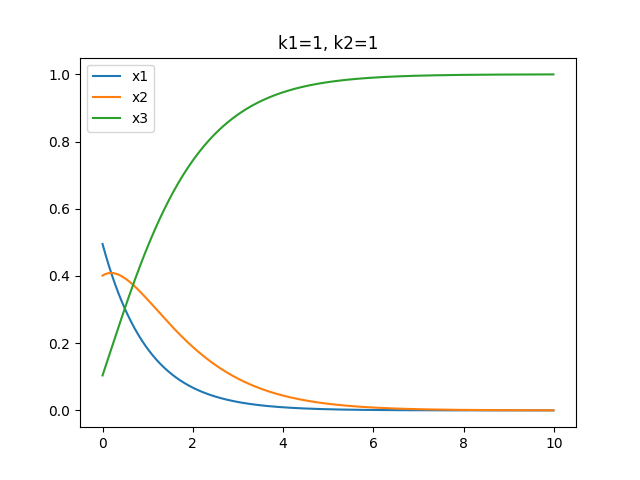
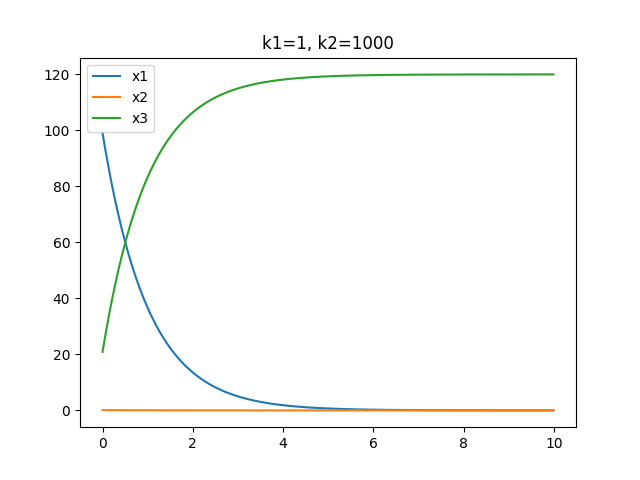
Corrected the figures

diff --git a/Assignment 4/codes/q6.py b/Assignment 4/codes/q6.py
@@ -69,10 +69,24 @@ print"--------------------------------------------"
 
 print "Student Data: x1=100, x2=0, x3 = 20"
 x1_0 = 100.; x2_0 = 0.; x3_0 = 20.
+xa = np.array([[x1_0], [x2_0], [x3_0]])
 
 k1 = 1; k2 = 1000
 y_n, COMP1, COMP2, COMP3 = reaction(k1,k2)
 print "For k1 = 1, k2 = 1000:\n", y_n
+print "For k1 = 1, k2 = 1:\n", y_n
+
+COMP1 = np.array(COMP1)
+COMP2 = np.array(COMP2)
+COMP3 = np.array(COMP3)
+temp = np.array(np.arange(a,b,h))
+
+plt.plot(temp,COMP1, label = "x1")
+plt.plot(temp,COMP2, label = "x2")
+plt.plot(temp,COMP3, label = "x3")
+plt.legend( loc='upper left', numpoints = 1 )
+plt.title("k1=1, k2=1000")
+plt.show()
 
 k1 = 1; k2 = 100
 y_n, COMP1, COMP2, COMP3 = reaction(k1,k2)
